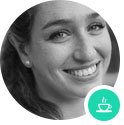
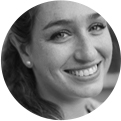
виправлені ошибки

diff --git a/модуль8/css/style.css b/модуль8/css/style.css
@@ -16,13 +16,12 @@ img {
     padding: 0;
 }
 .wrapper {
-    width: 320px;
+    width: 300px;
     margin: 0 auto;
-    padding: 0 10px;
 }
 /* NAV */
 .header {
-    background-image: url(../img/background.jpg);
+    background-image: url(../img/background320.jpg);
     min-height: 540px;
     background-size: cover;
     background-repeat: no-repeat;
@@ -93,7 +92,7 @@ img {
 }
 .title-dreams {
     padding-top: 40px;
-    font-size: 30px;
+    font-size: 28px;
 }
 .link-find {
     display: block;
@@ -110,8 +109,7 @@ img {
     font-weight: bold;
     width: 280px;
     height: 40px;
-    margin: 0 auto;
-    margin-top: 20px;
+    margin: 20px auto;
     border: 2px solid transparent;
     border-radius: 30px;
     padding: 10px 40px;
@@ -156,6 +154,79 @@ img {
     text-align: center;
     width: 220px;
 }
+.icon {
+    position: relative;
+}
+.icon::after {
+    position: absolute;
+    display: block;
+    content: "";
+    width: 30%;
+    height: 30%;
+    bottom: 0;
+    right: 0;
+    background-image: url(../img/partner/partner1icon.png);
+    background-repeat: no-repeat;
+    background-position: center;
+    background-color: #ff4e50;
+    border: 4px solid #fff;
+    border-radius: 50%;
+}
+.icon2 {
+    position: relative;
+}
+.icon2::after {
+    position: absolute;
+    display: block;
+    content: "";
+    width: 30%;
+    height: 30%;
+    bottom: 0;
+    right: 0;
+    background-image: url(../img/partner/partner2icon.png);
+    background-repeat: no-repeat;
+    background-position: center;
+    background-color: #ffa507;
+    border: 4px solid #fff;
+    border-radius: 50%;
+}
+.icon3 {
+    position: relative;
+}
+.icon3::after {
+    position: absolute;
+    display: block;
+    content: "";
+    width: 30%;
+    height: 30%;
+    bottom: 0;
+    right: 0;
+    background-image: url(../img/partner/partner3icon.png);
+    background-repeat: no-repeat;
+    background-position: center;
+    background-color: #1cd7ad;
+    border: 4px solid #fff;
+    border-radius: 50%;
+}
+.icon4 {
+    position: relative;
+}
+.icon4::after {
+    position: absolute;
+    display: block;
+    content: "";
+    width: 30%;
+    height: 30%;
+    bottom: 0;
+    right: 0;
+    background-image: url(../img/partner/partner4icon.png);
+    background-repeat: no-repeat;
+    background-position: center;
+    background-color: #4e73db;
+    border: 4px solid #fff;
+    border-radius: 50%;
+}
+
 .other-partner {
     font-family: 'Montserrat';
     font-weight: bold;
@@ -172,3 +243,4 @@ img {
     padding-top: 10px;
     font-size: 14px;
 }
+  

diff --git a/модуль8/index.html b/модуль8/index.html
@@ -30,7 +30,7 @@
         <h2 class="title-partner">Meet a partner for your best holiday</h2>
         <ul class="list-partner">
           <li class="item-partner one">
-            <a href="#"
+            <a class="icon" href="#"
               ><img
                 src="./img/partner/partner1.jpg"
                 alt="men"
@@ -41,7 +41,7 @@
             <p class="info name-info">Based in Chicago. I love playing tennis and loud music.</p>
           </li>
           <li class="item-partner two">
-            <a href="#"
+            <a class="icon2" href="#"
               ><img
                 src="./img/partner/partner2.jpg"
                 alt="men"
@@ -55,7 +55,7 @@
             </p>
           </li>
           <li class="item-partner three">
-            <a href="#"
+            <a class="icon3" href="#"
               ><img
                 src="./img/partner/partner3.jpg"
                 alt="women"
@@ -66,7 +66,7 @@
             <p class="info name-info">I'm a happy person that loves cats and climbing on mountains.</p>
           </li>
           <li class="item-partner four">
-            <a href="#"
+            <a class="icon4" href="#"
               ><img
                 src="./img/partner/partner4.jpg"
                 alt="women"

diff --git a/модуль8/css/media.css b/модуль8/css/media.css
@@ -1,11 +1,11 @@
 
 @media (min-width: 768px)  {
     .wrapper {
-        width: 768px;
+        width: 748px;
         padding: 0;
     }
     .header {
-        background-image: url(../img/background.jpg);
+        background-image: url(../img/background768.jpg);
         min-height: 700px;
         background-size: cover;
         background-repeat: no-repeat;
@@ -43,7 +43,6 @@
        font-size: 24px;
     }
     .link-find {
-        margin-top: 40px;
         width: 230px;
         padding: 10px 15px;
     }
@@ -68,9 +67,9 @@
         margin-top: 40px;
     }
 }
-@media (min-width: 942px) {
+@media (min-width: 960px) {
     .wrapper {
-        width: 942px;
+        width: 940px;
     }
     .list-partner {
         flex-wrap: nowrap;
